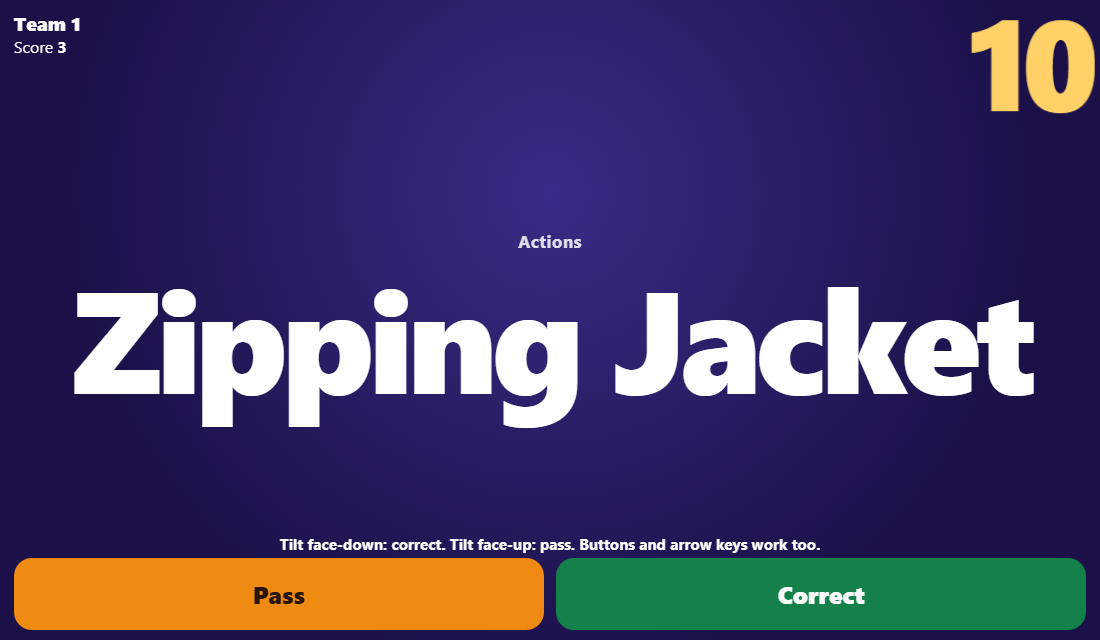
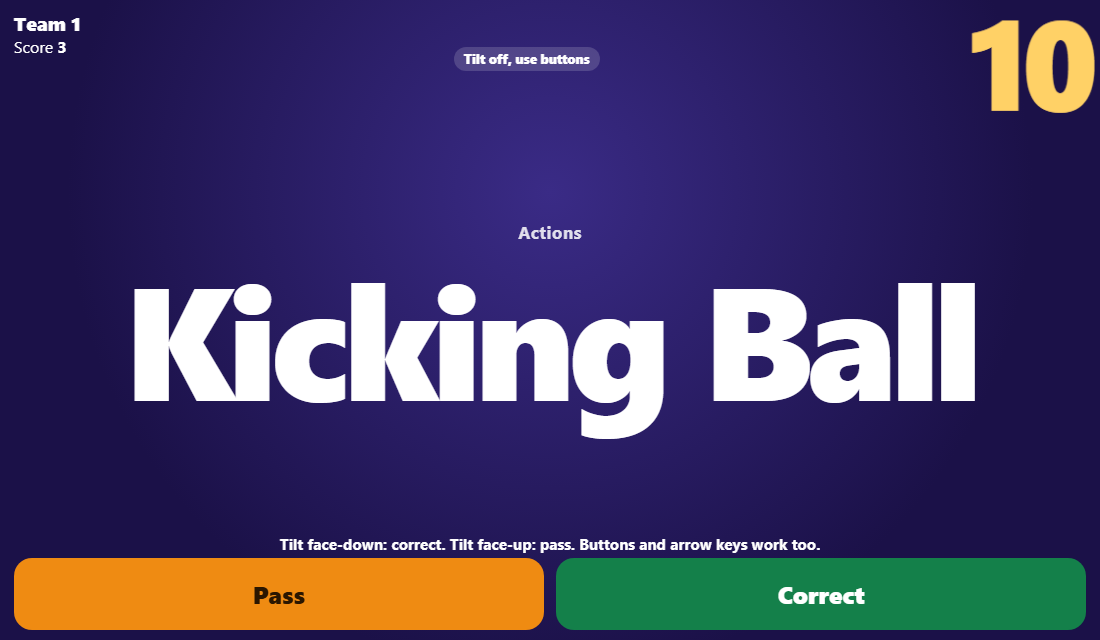
Record the live tilt-fix QC for Charades.
The Pages re-test passed 52 checks with the corrected poses, and the service worker is charades-v3.

diff --git a/qa/REPORT.md b/qa/REPORT.md
@@ -107,3 +107,81 @@ Taken from the live page during this run:
 - `qa/10-reshuffle.png` — a prompt dealt again
 
 Raw check output is in `qa/results.json`.
+
+## Tilt fix
+
+This section is the live re-test after the landscape-tilt fix. The checklist and counts above are the earlier Pages run and are left as history. The poses in that earlier tilt run used the mirrored gamma values, which is why they passed on a phone that did not tilt.
+
+### Root cause
+
+`screen.orientation.angle` is measured counter-clockwise. At angle 90 the phone's +x side points up. The old mapping used the opposite sign (`sy = -upX` at 90, `sy = upX` at 270), so an upright phone read about +/-180°. The neutral gate never reset. The first card could pass on its own, and later tilts did nothing. Buttons still worked.
+
+### What changed
+
+- Landscape tilt now uses `sy = upX` at angle 90 and `sy = -upX` at angle 270. Upright reads 0. Face-down reads positive and counts as correct. Face-up reads negative and counts as pass. That sign matches the on-screen help.
+- Each round averages the first 300ms, at least 5 readings, as neutral, and clamps that neutral to +/-50°. A move of 35° from neutral scores. The phone must return within 15°, and 600ms must pass, before another tilt scores. Calibration readings do not score.
+- `deviceorientation` is listened for on `window`, with no feature-detect gate. Null beta/gamma events are ignored. If no usable orientation event arrives within about 1s of play, `devicemotion` `accelerationIncludingGravity` is used as the same up vector. If both arrive, orientation wins.
+- Tap to start calls `DeviceOrientationEvent.requestPermission()` and `DeviceMotionEvent.requestPermission()` synchronously, before any other work in that tap. Listeners attach only after a grant. Browsers without that API attach on load. A denial still starts the round and leaves the buttons working. The grant is not stored.
+- A status pill during the countdown and the round says "Tilt on" while a usable sensor event arrived in the last second, and "Tilt off, use buttons" otherwise.
+- `?debug=1` shows beta, gamma, screen angle, up.z, pitch, neutral, delta, source, permission, events per second, and the last trigger. Without the flag the readout stays hidden.
+- The yellow "Rotate your phone sideways" note hides in landscape. The portrait "Rotate your phone" overlay is unchanged.
+- Service worker cache is `charades-v3`. Navigations and `index.html` are network-first with cache fallback. `skipWaiting()` and `clients.claim()` stay in place.
+- Prompt lists were cleaned so Mix does not repeat a card. Filler that read like a clue was removed from Bible Stories, Miracles & Parables, and Christmas & Easter. Reworded duplicates were collapsed to the first listed card, including The Prodigal Son, which was already the named card. Dinah was removed, along with names and objects that are hard for kids to act: Othniel, Bezalel, Jochebed, Asa, Jehoshaphat, Manasseh, Ephraim, Obadiah, Phoebe, Apollos, Aquila, Melchizedek, Red Heifer, Mercy Seat, and Hyssop Branch. Movies lost Turning Red, Lightyear, Strange World, Hotel Transylvania, Bedknobs and Broomsticks, Shrek, Shrek 2, Shrek the Third, Shrek Forever After, Fantasia, and The Karate Kid. Fantasia 2000 stayed.
+- Where the same prompt was in two categories, the earlier category in the page kept it. That dropped 18 later copies, including Red Sea, Olive Branch, Balaam's Donkey, Upper Room, Empty Tomb, Bethlehem Star, and Wise Men from the later list, Fig Tree from Bible Places & Things, Whale, Horse, Frog, Pig, and Dog from Animals, Blowing Bubbles, Walking Dog, Bowling, and Ice Skating from the later list, and Jump Rope from Outdoor Fun.
+- Miracles & Parables needed 12 added cards to stay at 100: Wedding at Cana, Official's Son, Peter's Mother, Bent Woman, Two Blind Men, Leper Healed, Servant Healed, Great Catch, Five Loaves, Two Fish, Bread Multiplied, and Cana Wedding.
+
+### Live page
+
+Pages build for `ba88605` reached status `built`. These responses were HTTP 200, and the bodies contained `charades-v3`, `Tilt off, use buttons`, and `debug`:
+
+- https://bryanralston.github.io/charades/
+- https://bryanralston.github.io/charades/sw.js
+
+Headings on the live page, in order: Christian, Classic, Mix.
+
+| Heading | Category | Prompts |
+| --- | --- | --- |
+| Christian | Bible Characters | 117 |
+| Christian | Bible Stories | 112 |
+| Christian | Miracles & Parables | 100 |
+| Christian | Christmas & Easter | 118 |
+| Christian | Church Life | 120 |
+| Christian | Bible Animals | 109 |
+| Christian | Bible Places & Things | 118 |
+| Classic | Actions | 130 |
+| Classic | Jobs | 124 |
+| Classic | Sports | 115 |
+| Classic | Animals | 113 |
+| Classic | Chores | 108 |
+| Classic | Movies | 169 |
+| Classic | Everyday Objects | 136 |
+| Classic | Foods | 124 |
+| Classic | Outdoor Fun | 120 |
+| Mix | Mix | 1933 cards drawn from the 16 lists |
+
+The cross-category duplicate check passed: no trimmed prompt, ignoring case, appears in two categories.
+
+### Tests
+
+| Check | Result |
+| --- | --- |
+| `node qa/tilt_math_check.mjs` | 34 passed. Upright is 0 at angles 90 and 270. 30° face-down is +30. 30° face-up is -30. The QC poses are about +40, -40, and -10. Motion gravity matches. Hysteresis and the 600ms debounce hold. |
+| `node qa/headless_qc.mjs` on http://127.0.0.1:8765/ | 52 passed, 0 console errors |
+| `node qa/shuffle_check.mjs` | 28 passed, 0 console errors. Each category is still at least 100. Reshuffle still holds back the latest 24. |
+| `CHARADES_URL=https://bryanralston.github.io/charades/ node qa/headless_qc.mjs` | 52 passed, 0 console errors |
+
+On the live page, angle 90 upright is beta 0 / gamma -90. A small tilt (beta 0 / gamma -80) read -10 and did not score. Face-down (beta 180 / gamma 50) read +40 and scored correct once. Face-up (beta 0 / gamma -50) read -40 and scored pass once after a return to neutral and 600ms. Angle 270 face-down (beta 180 / gamma -50) read +40 and scored correct. With orientation removed, devicemotion gravity for the same face-down pose scored correct and the source was motion. The pill read "Tilt off, use buttons" before events and "Tilt on" while they arrived. `requestPermission` ran twice before the click handler returned. The sideways note was hidden in landscape and still shown in portrait. No 402 or 429.
+
+Screenshots in `qa/` are from this live run. The play shot shows the tilt status pill between the team name and the timer.
+
+### `?debug=1`
+
+Open https://bryanralston.github.io/charades/?debug=1 on the phone. A small readout stays on screen through setup and play. Leave the flag off for a normal game. Nothing else about the round changes.
+
+### Still needs a real phone
+
+- The iPhone Safari permission prompt, and that a denial keeps the buttons working.
+- Android Chrome, where there is no permission call and listeners attach on load.
+- The motion-fallback sign on a device that does not emit deviceorientation.
+- Whether 35° from the forehead feels right.
+- Rotation lock. If the browser keeps reporting angle 0 while the phone is sideways, this mapping will not read upright as 0. Turn rotation lock off, or use the buttons.
